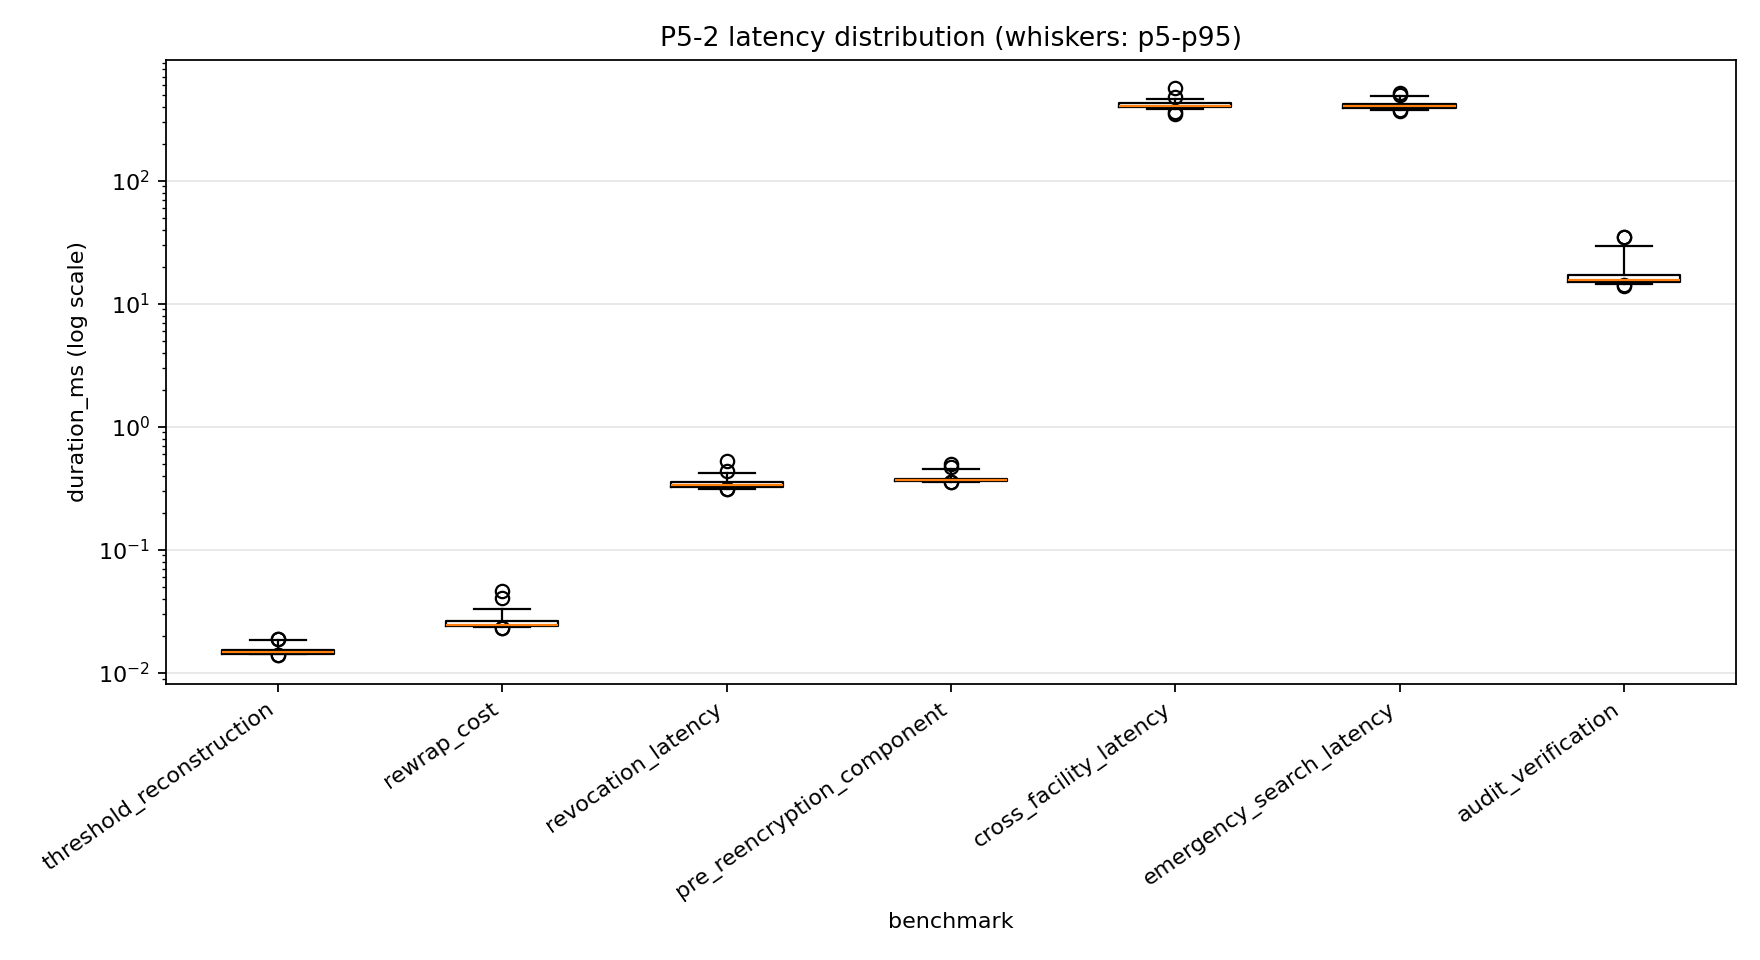
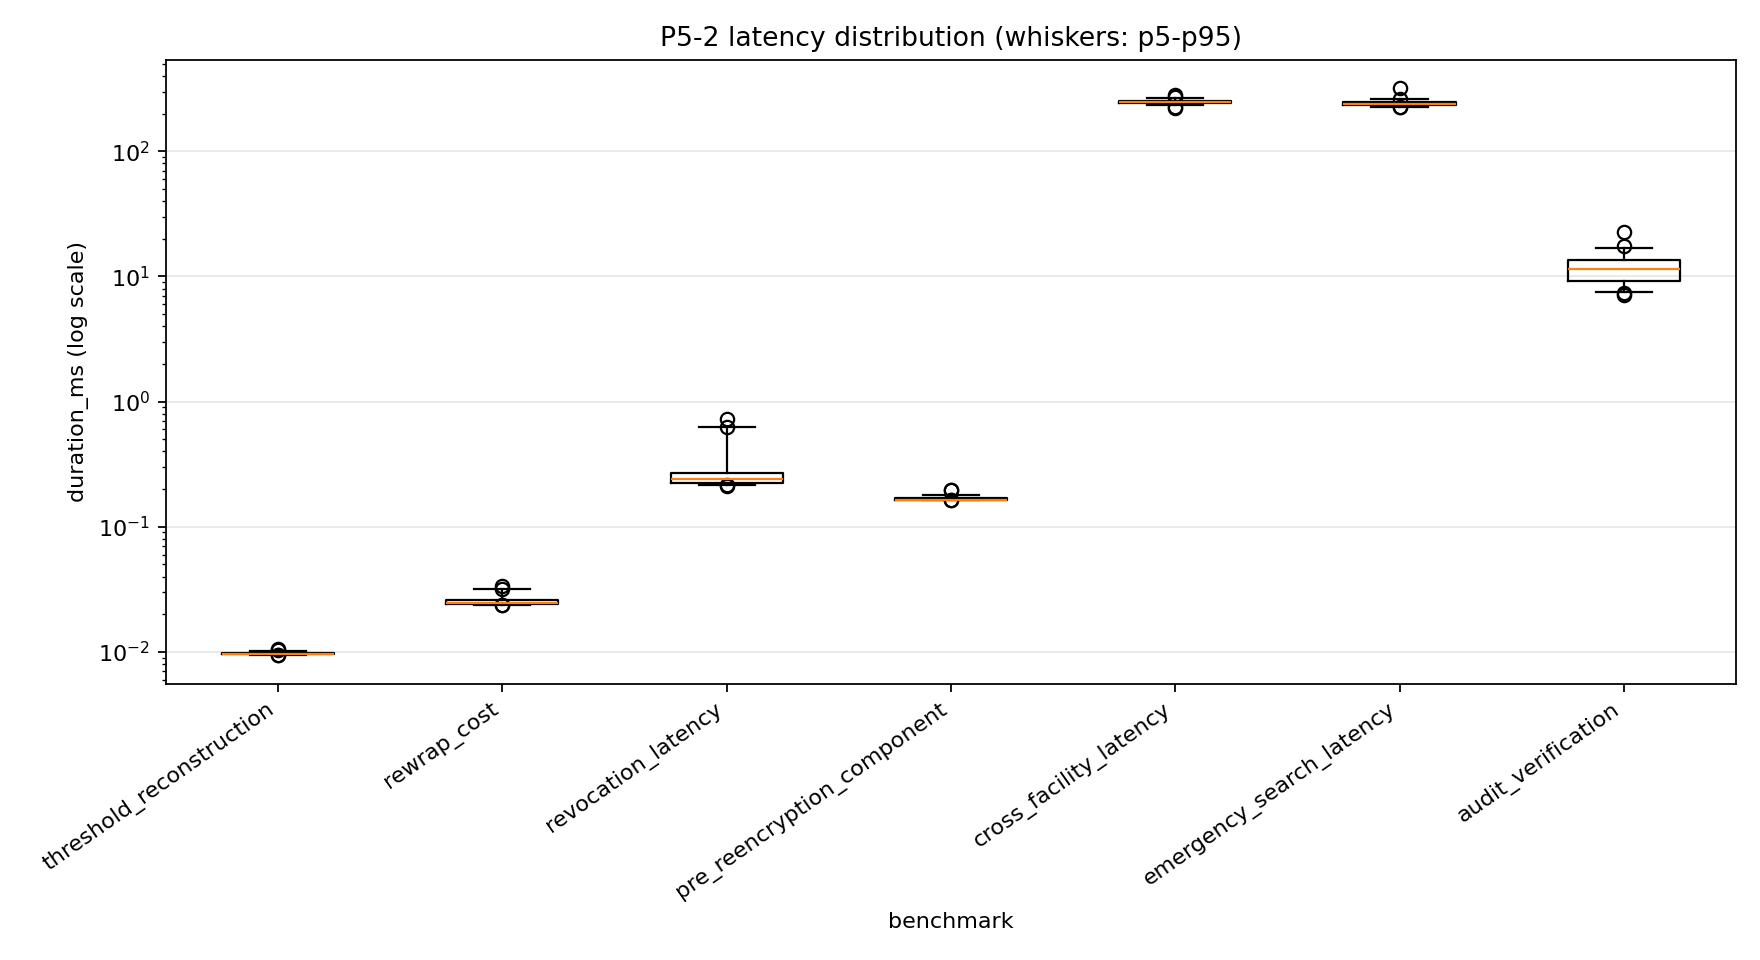
docs(paper): align paper inputs and benchmark with the 3-of-4 split
- bench: threshold_reconstruction uses THRESHOLD/TOTAL_SHARES (3-of-4)
  instead of a hard-coded 2-of-3; the emergency-search setup presents
  shares 1, 3 and 4 (1 and 2 alone are two points and now get a 400).
  Results re-run on 2026-10-21 and noted under WORKFLOW P5-2.
- ieee-paper skill: the abstract caveat names the audit service as the
  single point of availability (ADR-0089) instead of "2-of-2"; the
  benchmark label and gate diagram say 3-of-4.
- paper plan: F2 brief describes the weighted split and lists ADR-0089
  (0074 superseded); W4 says 3-of-4; readiness table and benchmark-run
  decision updated.
- PROJECT.md §4 claim 2, the novelty review's status note and explainer
  02 describe the 3-of-4 split.

diff --git a/bench/run_benchmarks.py b/bench/run_benchmarks.py
@@ -33,6 +33,7 @@ import pandas as pd
 import psycopg
 from api.share_transport import fetch_share_recipient, sealed_json
 from audit.chain import verify_full_chain
+from breakglass.emergency_key import THRESHOLD, TOTAL_SHARES
 from contracts.enums import LifecycleState, ReasonCode
 from crypto_core import (
     certificate_from_pem,
@@ -159,11 +160,12 @@ def environment(deployment_path: str) -> dict[str, object]:
 def benchmark_threshold(iterations: int) -> Row:
     secret = b"benchmark-secret-for-phase5-task2"
 
-    shares = split_secret(secret, k=2, n=3)
-    threshold_shares = shares[:2]
+    # The deployed access structure (ADR-0089), not a hard-coded k and n.
+    shares = split_secret(secret, k=THRESHOLD, n=TOTAL_SHARES)
+    threshold_shares = shares[:THRESHOLD]
 
     def operation() -> None:
-        recovered = combine_shares(threshold_shares, k=2)
+        recovered = combine_shares(threshold_shares, k=THRESHOLD)
         if recovered != secret:
             raise RuntimeError("Threshold reconstruction failed")
 
@@ -171,7 +173,7 @@ def benchmark_threshold(iterations: int) -> Row:
         "threshold_reconstruction",
         timed_call(operation, iterations, "threshold_reconstruction"),
         iterations,
-        "Shamir k=2,n=3",
+        f"Shamir k={THRESHOLD},n={TOTAL_SHARES}",
     )
 
 
@@ -496,14 +498,15 @@ def run_db_benchmarks(iterations: int, database_url: str) -> list[Row]:
             ttl=dt.timedelta(minutes=5),
         )
 
-        # Use the two locally available threshold shares, sealed to the
-        # facility's gate (ADR-0079).
+        # Present a three-share unlock set (custodian x=1, audit x=3 and x=4;
+        # ADR-0089) from the seeded shares, sealed to the facility's gate
+        # (ADR-0079).
         gate = fetch_share_recipient(
             client, endpoints.facility_b, kind="facility", trusted_root=root
         )
         shares_payload = [
             sealed_json(record_info[name], record_id="rec-001", recipient=gate)
-            for name in ("share1", "share2")
+            for name in ("share1", "share3", "share4")
         ]
 
         unlock_payload = {

diff --git a/docs/plans/ieee-paper-oneshot-prompt.md b/docs/plans/ieee-paper-oneshot-prompt.md
@@ -4,7 +4,7 @@
 **Covers:** deliverable D3 (`PROJECT.md` §2)
 **Skill:** `.claude/skills/ieee-paper/` (every drafting and verifying agent
 reads it)
-**Decision:** ADR-0087 (IEEEtran LaTeX, built locally with Tectonic); ADR-0088 (novelty restated as a combination)
+**Decision:** ADR-0087 (IEEEtran LaTeX, built locally with Tectonic); ADR-0088 (novelty restated as a combination); ADR-0089 (weighted 3-of-4 break-glass split)
 
 ## Readiness: what was fixed on 2026-10-21
 
@@ -17,6 +17,7 @@ reads it)
 | Wire evidence (course module) | The saved `plain.pcap` had no Postgres traffic, so check 2 failed in the live test | Plain and TLS captures re-recorded (TLS against the TLS-only store). `wire.analyze_traffic`: **checks 0–4 pass**, audit COMMIT 4.62 ms before the release. `bench/results/p55_*` regenerated |
 | Benchmarks | 2026-10-19 run, AMD 16-core, before the ADR-0086 dependency bump | Re-run on current code: Intel 12-core, Postgres in Docker Desktop. Crypto figures unchanged. HTTP is ~405 ms median against ~50 ms before, which is the DB path on this machine (~11 ms per new connection), not the code. Recorded in `WORKFLOW.md` P5-2 |
 | Limitations count | `WORKFLOW.md` said "four caveats" | Points to `PROJECT.md` §5 (thirteen since ADR-0088) |
+| Break-glass split | 2-of-3 with share 2 discarded, so 2-of-2 in practice (ADR-0074) | Weighted 3-of-4 (ADR-0089, PR #54): custodian x=1, home authority x=2, audit service x=3,4; every unlock set holds an audit share. The `threshold_reconstruction` benchmark now uses `THRESHOLD`/`TOTAL_SHARES` and was re-run |
 | Novelty claim | `PROJECT.md` §4 claimed "no prior work makes logging a cryptographic precondition", and that 2511.17464 does rotation | Restated as a combination (ADR-0088) after the literature review, filed at `docs/review/2026-10-21-novelty-publishability-review.md` with a status note on its outdated findings. New caveat §5 item 13 (trusted audit service). The review's bibliography feeds F8 as leads to verify |
 
 ## Still needed before running the prompt
@@ -27,9 +28,9 @@ reads it)
    errors. The first attempt failed after 34 minutes on network errors to
    Tectonic's bundle server; the retry succeeded. On another machine, the
    first build fetches packages again.
-2. **Pick the benchmark run the paper quotes.** Either the fresh 2026-10-21
-   run (the working tree) or the 2026-10-19 run (in git). The paper names its
-   machine either way.
+2. ~~Pick the benchmark run the paper quotes~~: the 2026-10-21 re-run after
+   ADR-0089 (in git), the only one that times the 3-of-4 combine. The paper
+   names its machine.
 3. **P5-3 search leakage** (`bench/results/p53_*`) predates the ADR-0086 bump
    and wasn't re-captured. It needs the two `--search-workload` captures and an
    update to `p53_search_leakage.md`. Otherwise the paper quotes it with its
@@ -148,9 +149,11 @@ F1 lifecycle (skill: crypto-implementation) — ARCHITECTURE.md §2, §5;
    handling; expiry and full rotation.
 F2 breakglass (crypto-implementation) — ARCHITECTURE.md §5 (cross-facility
    break-glass), §8; src/breakglass/*, src/audit/*, src/shamir/*; ADR-0032–0035,
-   0044, 0049, 0056, 0057, 0063, 0065–0068, 0074, 0079, 0082, 0083. Extract:
-   assertion fields and validation, replay protection, the commit-then-release
-   order, share holders (2-of-3 split, 2-of-2 in practice), time limits.
+   0044, 0049, 0056, 0057, 0063, 0065–0068, 0079, 0082, 0083, 0089 (0074 is
+   superseded by 0089). Extract: assertion fields and validation, replay
+   protection, the commit-then-release order, share holders (weighted 3-of-4:
+   custodian x=1, home authority x=2, audit service x=3,4), the home-authority
+   fallback and what it does not cover, time limits.
 F3 crypto (crypto-implementation) — ARCHITECTURE.md §1, §3; src/crypto_core,
    src/policy, src/records, src/pre, src/search; ADR-0001, 0002, 0012, 0022,
    0023, 0026, 0027, 0036, 0076, 0077, 0080. Extract: primitives, sizes and
@@ -225,7 +228,7 @@ W2 III Threat Model and Goals + IV System Overview (F4, F5) — 1 p; TikZ
 W3 V Key-Lifecycle State Machine (F1, F3) — 1.5 pp; TikZ state diagram and the
    transition table
 W4 VI Break-Glass Protocol (F2, F3) — 1.25 pp; TikZ message sequence, the
-   2-of-3 gate, the hash chain
+   3-of-4 gate, the hash chain
 W5 VII Security Analysis (F5, live) + VIII Traffic Analysis (F6) — 1.5 pp; the
    C1–C11 table captioned with its date and sha; the wire-check table; PRE
    marked unproven

diff --git a/WORKFLOW.md b/WORKFLOW.md
@@ -548,6 +548,7 @@ positive control: `test_share_released_only_after_successful_commit`.)*
 *Done (2026-10-15):* `DATABASE_URL=... python -m bench.run_benchmarks` runs again: the break-glass step had broken on PR #40's justification rule; it now sends the justification bound into the signed assertion and the clinician-signed transition (ADR-0068), and signs every request (ADR-0066). `bench/results/` is regenerated. **Caveat for the paper:** this run is native Windows, where the HTTP benchmarks measure ~170 ms; `main`'s own code measures the same here, so that is the machine, not signing (the previous results, ~15 ms, came from WSL). Regenerate on the paper's reference machine before quoting latencies.
 *Re-run (2026-10-19):* on current code (30 iterations, 5 warm-up, Postgres, Python 3.11), native Windows on a different machine (AMD, 16 cores; `environment.json`). The HTTP benchmarks now measure ~50 ms median (cross-facility 49 ms, emergency search 51 ms), so the earlier ~170 ms was that machine, as suspected. The reference-machine caveat above still applies.
 *Re-run (2026-10-21):* on current code (after the ADR-0086 dependency bump), Intel 12-core, native Windows, Postgres 16 in Docker Desktop (`environment.json`). Crypto benchmarks match the 2026-10-19 run (revocation 0.34 ms, Shamir combine 0.01 ms median). The HTTP benchmarks measure ~405 ms median (cross-facility 405 ms, emergency search 407 ms), against ~50 ms on 2026-10-19. On this machine a Postgres round trip through Docker Desktop costs ~1 ms and a new connection ~11 ms, so the HTTP figures again track the machine and DB path, not the code. The paper names the run it quotes.
+*Re-run (2026-10-21, ADR-0089):* `threshold_reconstruction` now splits and combines with `breakglass.emergency_key.THRESHOLD`/`TOTAL_SHARES` (3-of-4) instead of a hard-coded 2-of-3, and the emergency-search setup presents shares 1, 3 and 4 (shares 1 and 2 are only two points now, so the old unlock returned 400). Same machine as the run above: Shamir combine 0.010 ms, revocation 0.24 ms, cross-facility 247 ms, emergency search 241 ms, audit verification 11 ms median. This is the run the paper quotes. *(Proposal by Powel for Nandini's review.)*
 
 **P5-3 · Search leakage analysis** *(was P5-3)* — Nandini — 6h ✅ *(Nandini to review)*
 *What:* Measure exactly what the server can infer from search traffic (access patterns, frequency, volume) — from real captures, not argument.

diff --git a/.claude/skills/ieee-paper/SKILL.md b/.claude/skills/ieee-paper/SKILL.md
@@ -74,7 +74,9 @@ don't trust a number written down somewhere else. Each item gets its own
 sentence or short paragraph in Section X. The abstract has to name at least
 these: revocation is forward-only, expiry is enforced by the server rather than
 by cryptography, the construction is not full CP-ABE (not collusion-resistant),
-break-glass is 2-of-2 in this build, "no plaintext on the wire" holds under
+the audit service is a single point of availability for break-glass (the
+home authority's share covers a lost clinician share only, ADR-0089), "no
+plaintext on the wire" holds under
 TLS only, and the audit service is trusted (no proofs of presence or extension).
 
 Never claim out-of-scope work (`PROJECT.md` §6): ML anomaly detection, FHIR/HL7,
@@ -97,7 +99,7 @@ paper:
 - Name the machine and deployment path from `bench/results/environment.json`
   next to the table. Say the HTTP figures (`cross_facility_latency`,
   `emergency_search_latency`) include transport and depend on the machine.
-- Call `threshold_reconstruction` "Shamir combine (2-of-3)", not "break-glass
+- Call `threshold_reconstruction` "Shamir combine (3-of-4)", not "break-glass
   latency". It times `combine_shares` alone.
 - Ciphertext expansion comes from `benchmark_results.csv` rows, not from the
   PNG.
@@ -225,7 +227,7 @@ Paper source rules:
 - Write each section as `paper/sections/NN-name.tex` and use `\input` from
   `paper/main.tex` (that works with Tectonic and on Overleaf).
 - Draw every diagram in **TikZ** (the state diagram, the break-glass sequence,
-  the 2-of-3 gate, the hash chain). Draw plots in **pgfplots**, with data
+  the 3-of-4 gate, the hash chain). Draw plots in **pgfplots**, with data
   taken from the CSV (`\addplot table` on a copy under `paper/data/`, or
   inline coordinates generated by a script), so plots can't drift from the
   results. Don't use the PNGs in `bench/results/`: they're the harness's

diff --git a/PROJECT.md b/PROJECT.md
@@ -155,10 +155,11 @@ search.
    states at the policy layer. Not every transition is a rotation: Grant adds
    a key wrapping, while Revoke and expiry rotate.
 2. **Transparent-decryption-style log gating instantiated for federated
-   break-glass.** The audit service holds a share of the emergency key that
-   every break-glass needs. It releases that share only after validating a
-   signed, one-time Emergency Assertion bound to the record, and committing a
-   hash-chained entry (ADR-0067, ADR-0074).
+   break-glass.** The audit service holds two of the four shares of the
+   emergency key, and every three-share unlock needs at least one of them. It
+   releases them only after validating a signed, one-time Emergency Assertion
+   bound to the record, and committing a hash-chained entry (ADR-0067,
+   ADR-0089).
 3. **Emergency search derived from the emergency key**, so it ends with the
    emergency state at the expiry rotation (ADR-0069).
 4. **Evidence**: negative-security tests for C1–C11, and passive wire captures

diff --git a/docs/review/2026-10-21-novelty-publishability-review.md b/docs/review/2026-10-21-novelty-publishability-review.md
@@ -19,9 +19,10 @@
 >
 > **Out of date. Do not repeat these as current:**
 > - *"2-of-3 lets clinician + home authority open a record without the audit
->   service."* Fixed by ADR-0074: share 2 is never deposited (it is discarded
->   at ingest and at every rotation, `src/api/rotation.py`), so every
->   break-glass needs the audit service's share.
+>   service."* Fixed, first by ADR-0074 (share 2 discarded), now by
+>   ADR-0089: a weighted 3-of-4 split where the clinician's custodian holds
+>   x=1, the home authority x=2 and the audit service x=3 and x=4. Shares 1
+>   and 2 are only two points, so every unlock still needs an audit share.
 > - *"The audit service does not verify the assertion."* Fixed by ADR-0067
 >   (claim C3).
 > - *"Expiry does not replace the emergency shares."* Fixed by ADR-0069 (C4).

diff --git a/docs/explainers/02-key-lifecycle-state-machine.md b/docs/explainers/02-key-lifecycle-state-machine.md
@@ -58,7 +58,7 @@ person already decrypted and saved. Say so before you are asked.
 
 - **Consent** (patient says yes) is a gate in front of the Granted read path.
 - **Revocation** is Granted→Revoked plus a key rotation.
-- **Break-glass** is →Emergency-open, which only happens through the 2-of-3
+- **Break-glass** is →Emergency-open, which only happens through the 3-of-4
   threshold gate (file 3).
 - **Expiry** is Emergency-open→Expired→Granted, executed by a timer that signs
   both moves and re-keys the record in between. No administrator action.

diff --git a/bench/README.md b/bench/README.md
@@ -31,7 +31,7 @@ Report median and p95 in the paper, never the mean alone.
 
 | Benchmark | Path exercised |
 |---|---|
-| `threshold_reconstruction` | `shamir.combine_shares`, 2-of-3 |
+| `threshold_reconstruction` | `shamir.combine_shares`, 3-of-4 (ADR-0089) |
 | `rewrap_cost` | AES-256-GCM unwrap + wrap of one DEK |
 | `revocation_latency` | `records.revocation.revoke_record_access` (DEK rotation, policy recompile, signed transition) |
 | `pre_reencryption_component` | ElGamal PRE `reencrypt` only |
